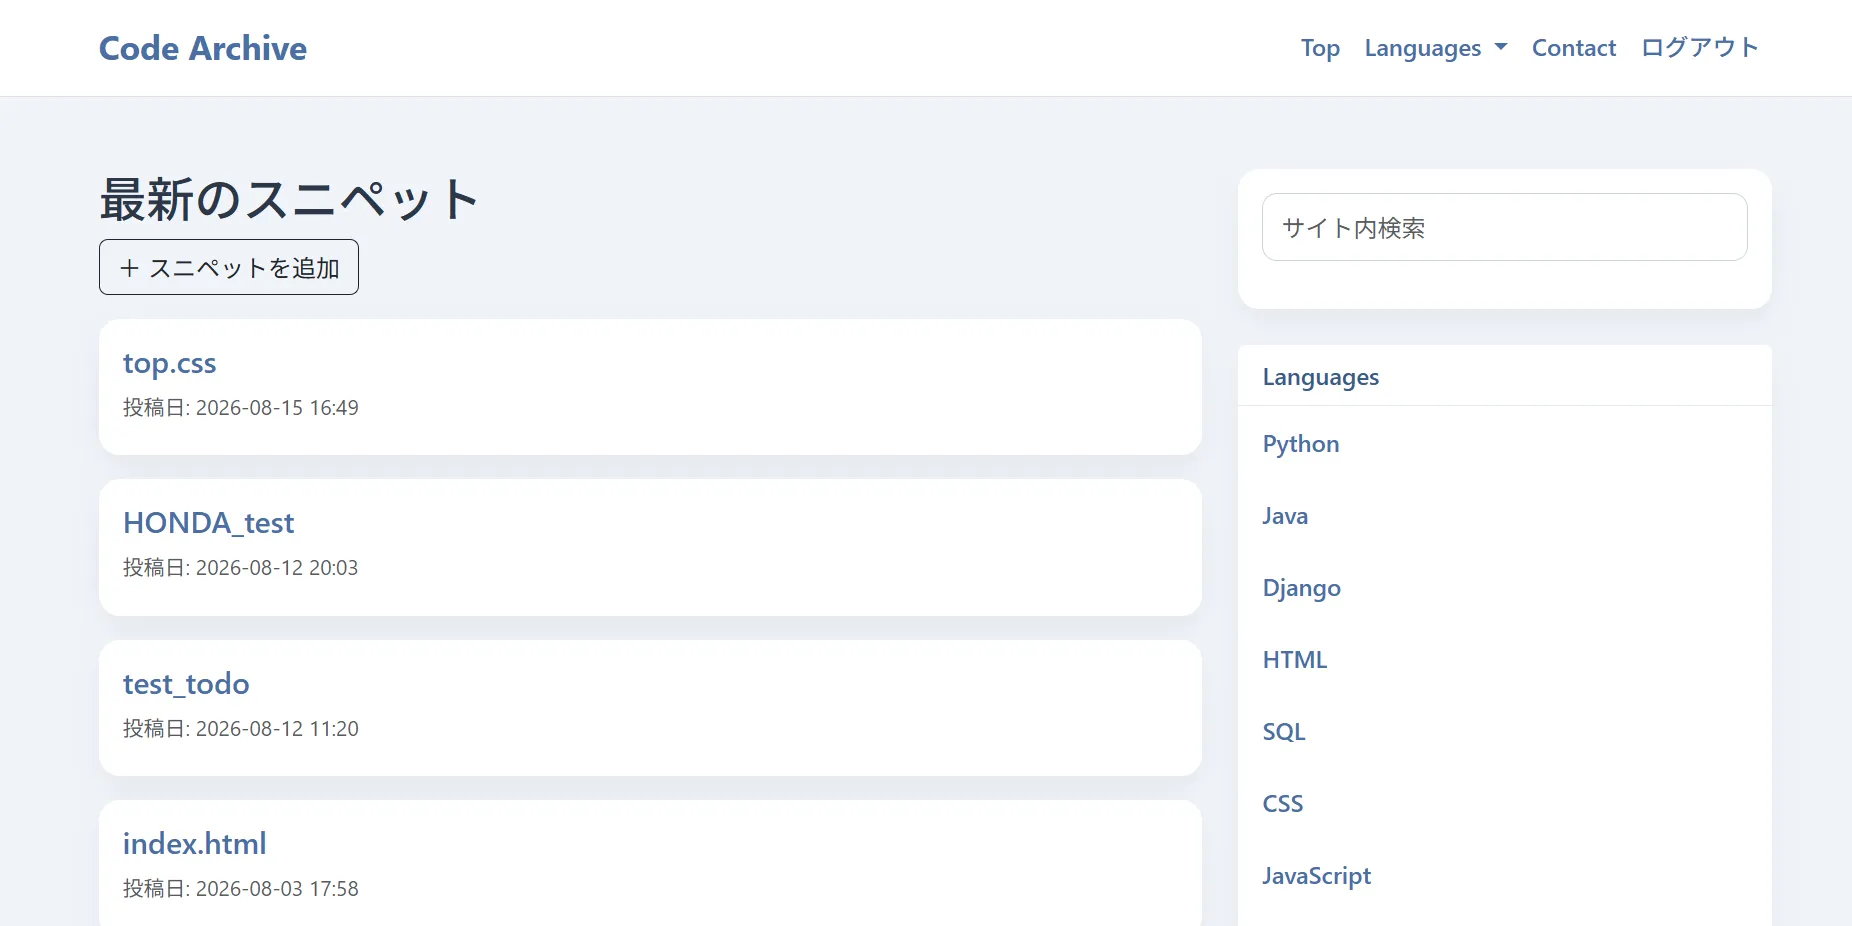
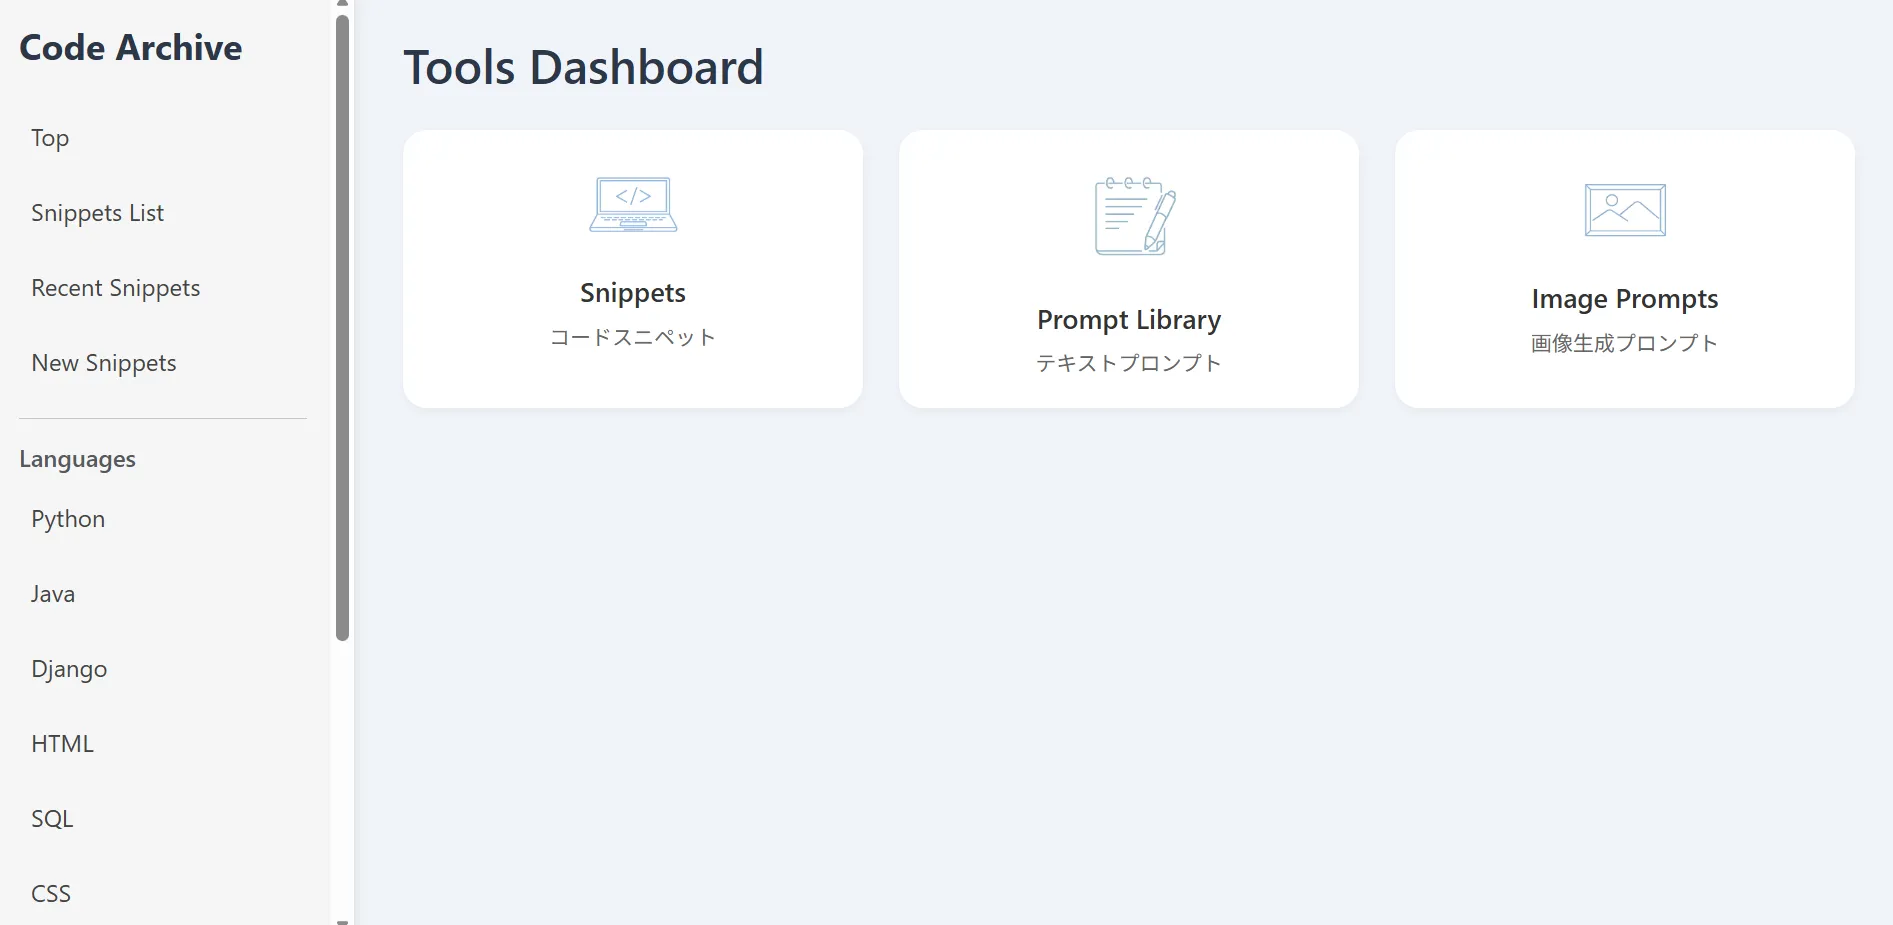
Update index snippet

diff --git a/contact.html b/contact.html
@@ -10,6 +10,7 @@
 	<link rel="apple-touch-icon" href="apple-touch-icon.png" sizes="180x180">
 	<meta name="description" content="Development Archive">
 	<meta name="viewport" content="width=device-width">
+	<script src="js/common.js" defer></script>
 </head>
 
 <body>
@@ -23,9 +24,12 @@
 				<div id="gnavi">
 					<ul>
 						<li><a href="index.html">Home</a></li>
+						<li><a href="index.html#info">News</a></li>
 						<li><a href="skill.html">Skills</a></li>
 						<li><a href="all_works.html">All Works</a></li>
-						<li><a class="now" href="contact.html">Contact</a></li>
+						<li><a href="contact.html">Contact</a></li>
+						<li class="with-line hd"><a href="all_works.html?category=django">Django</a></li>
+						<li class="hd"><a href="all_works.html?category=web">WEB</a></li>
 					</ul>
 				</div>
 				<!-- <a class="cta-btn" href="contact.html">Get Proposal</a> -->
@@ -33,6 +37,7 @@
 		</div>
 	</header>
 	<main>
+		<div id="loader" class="loader"><img src="image/loading.webp" alt=""></div>
 		<article>
 			<ol id="breadcrumb">
 				<li><a href="index.html">トップ</a></li>

diff --git a/project/django/snippet/index.html b/project/django/snippet/index.html
@@ -32,9 +32,8 @@
         </div>
         <div class="project-hero-wrap">
             <div class="project-hero-overlay">
-                <a href="https://todo-1lnw.onrender.com/" class="hero-btn" target="_blank">Visit App</a>
-                <a href="https://github.com/taku26841397/portfolio_django_todo" class=" hero-btn"
-                    target="_blank">GitHub</a>
+                <a href="https://portfolio-snippets.onrender.com/" class="hero-btn" target="_blank">Visit App</a>
+                <a href="https://github.com/taku26841397/portfolio_snippets" class="hero-btn" target="_blank">GitHub</a>
             </div>
             <div class="test_user">
                 <strong>Test User (for login)</strong><br>

diff --git a/skill.html b/skill.html
@@ -6,8 +6,8 @@
 	<title>Skills｜Development Archive</title>
 	<link rel="stylesheet" href="css/reset.css">
 	<link rel="stylesheet" href="css/style.css">
-	<link rel="icon" href="image/fabicon.png">
-	<link rel="apple-touch-icon" href="../apple-touch-icon.png" sizes="180x180">
+	<link rel="icon" href="favicon.ico">
+	<link rel="apple-touch-icon" href="apple-touch-icon.png" sizes="180x180">
 	<meta name="description" content="Development Skill Set">
 	<meta name="viewport" content="width=device-width">
 	<script src="js/common.js" defer></script>

diff --git a/all_works.html b/all_works.html
@@ -84,9 +84,9 @@
 				</a>
 			</div>
 			<div class="project-item" data-category="django">
-				<a href="">
+				<a href="/project/django/snippet/index.html">
 					<img src="image/snippet_picture.png" alt="">
-					<p class="project-title">Coming Soon</p>
+					<p class="project-title">Snippetアプリ</p>
 				</a>
 			</div>
 		</div>
